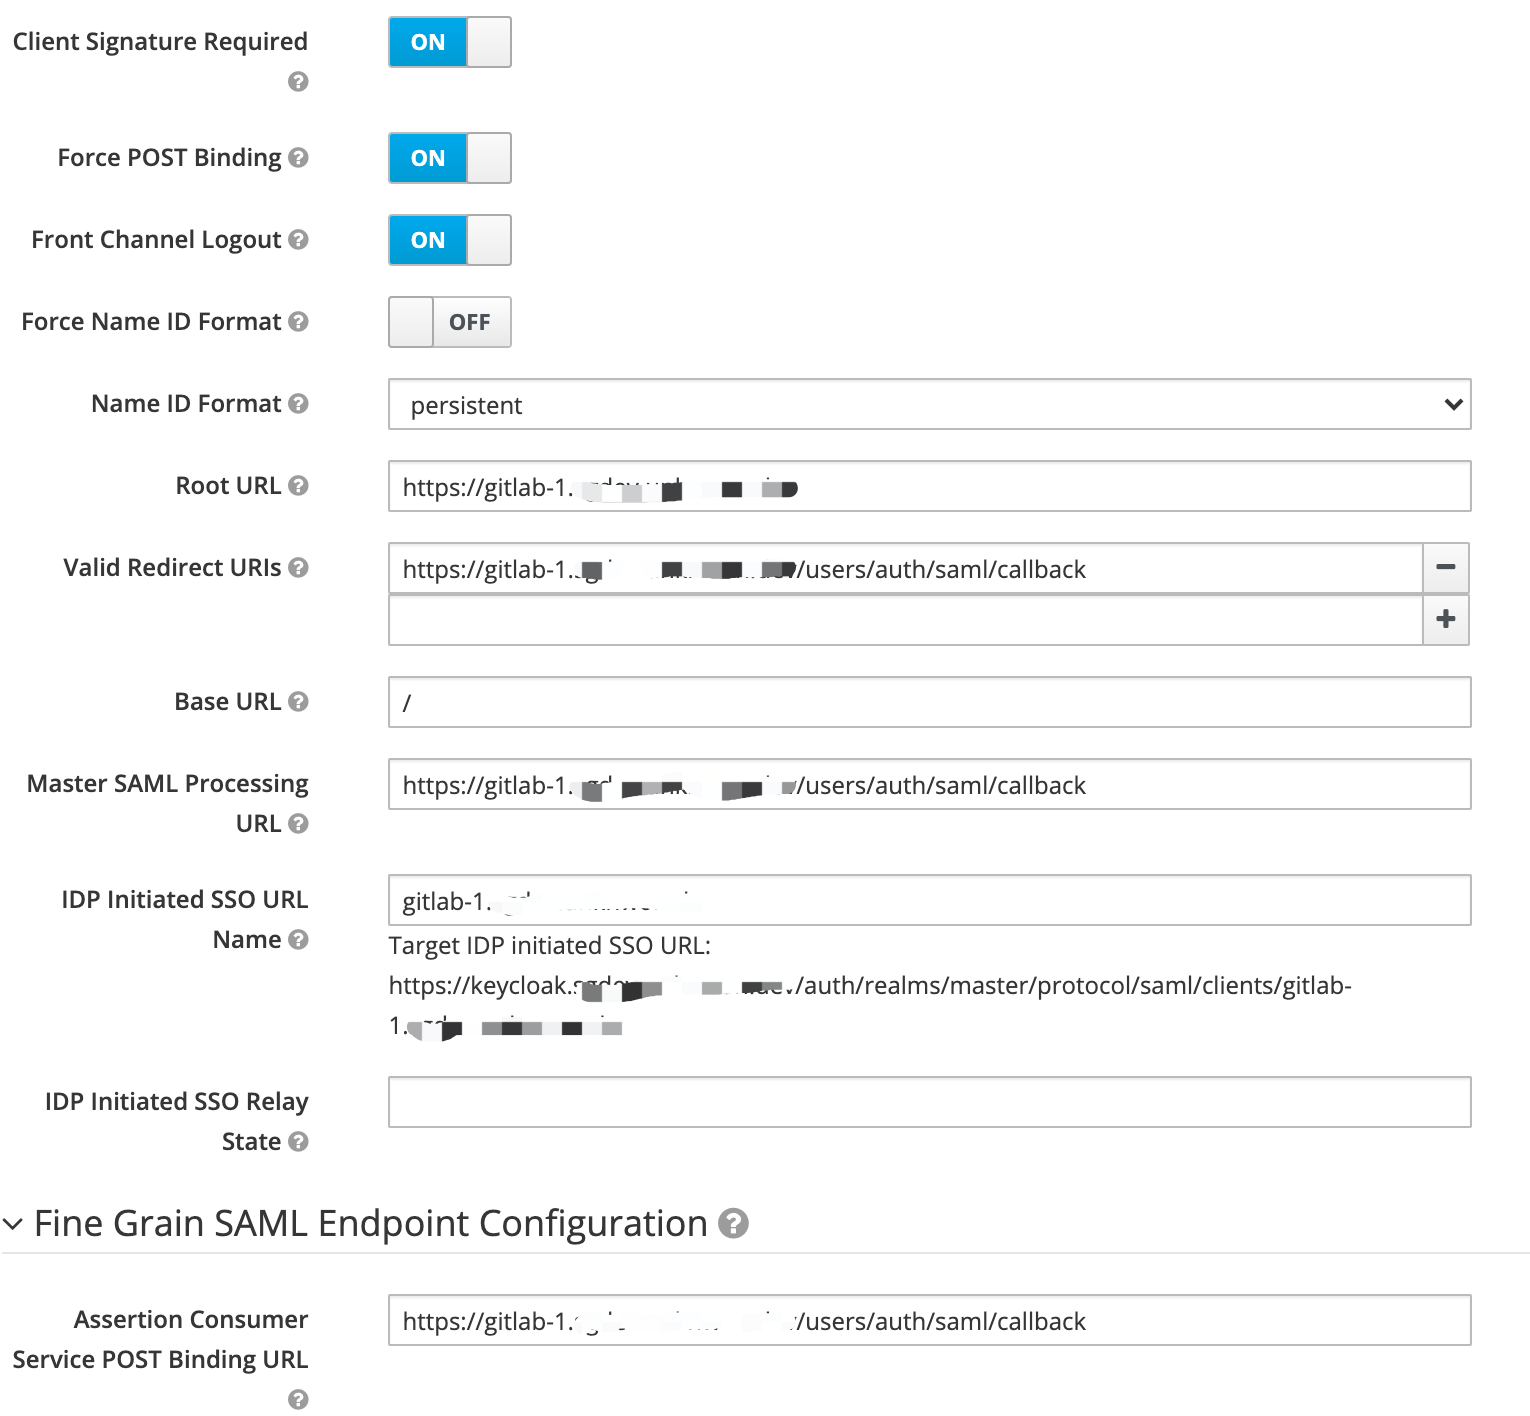
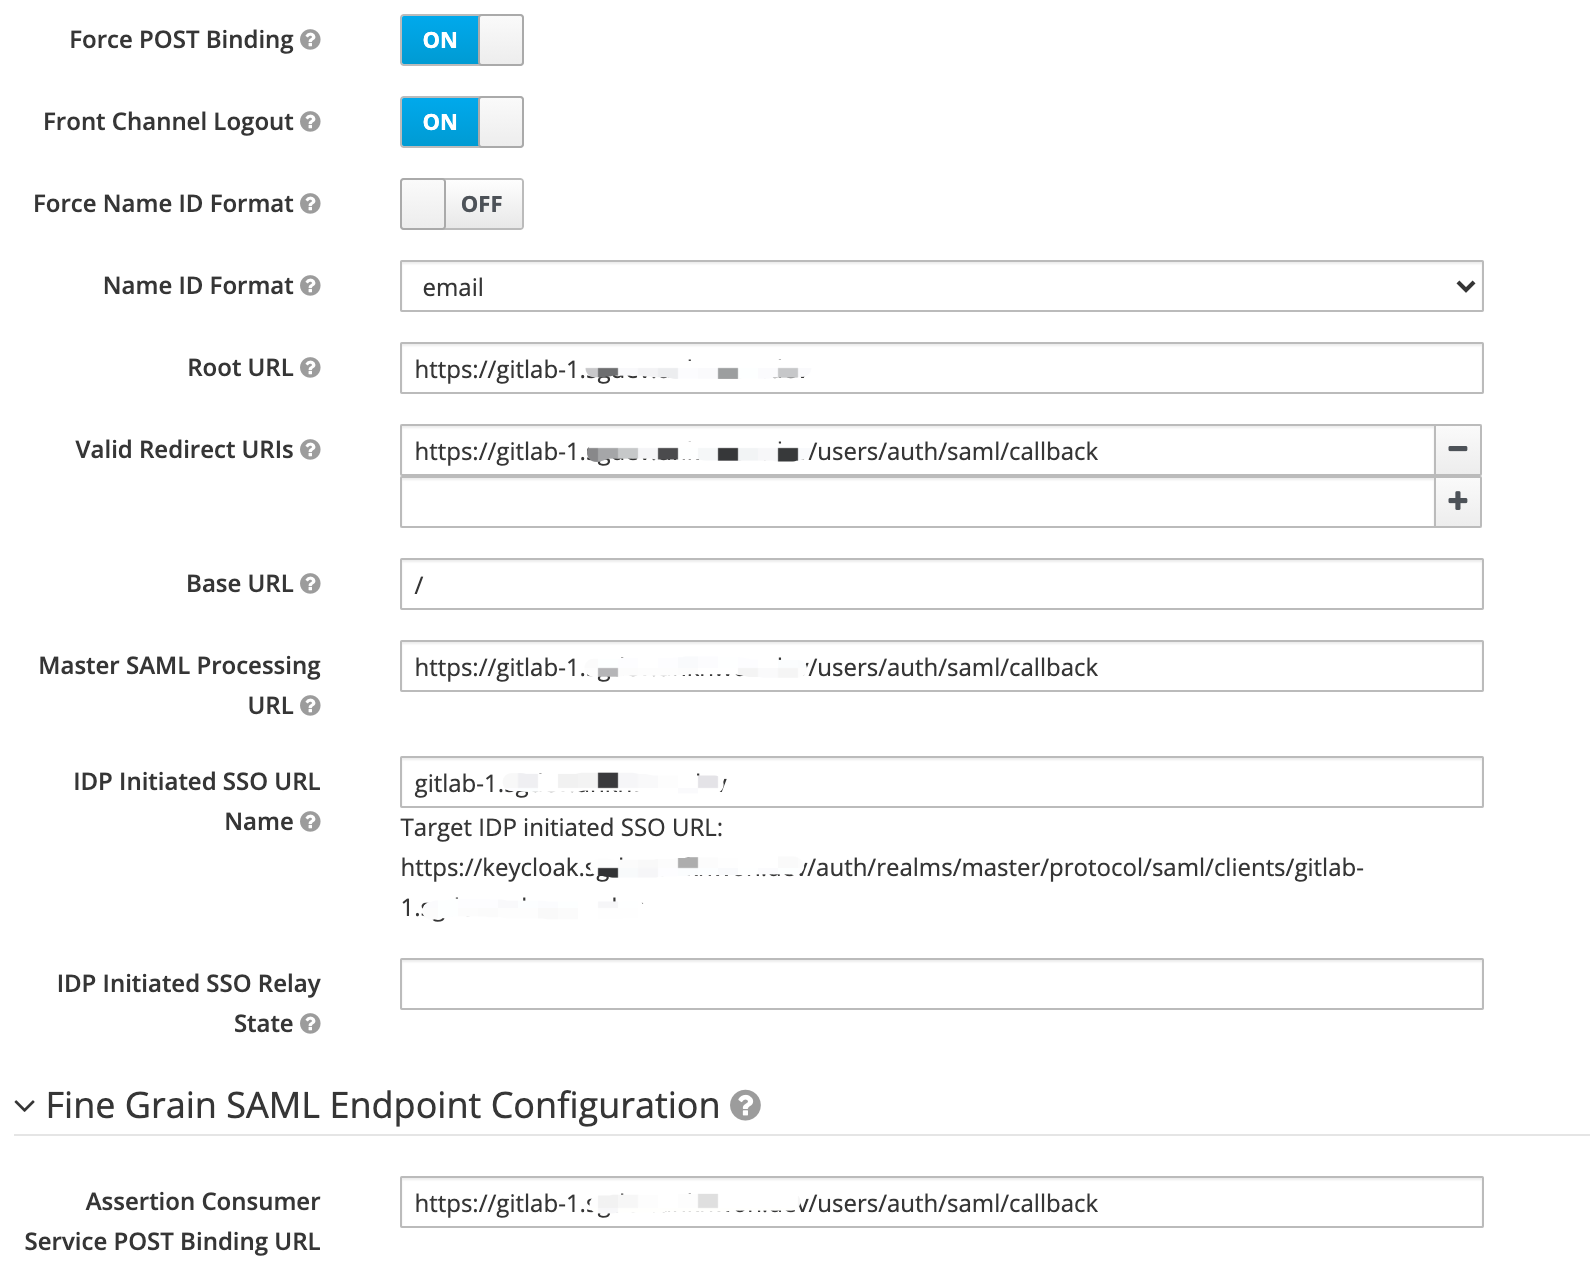
200915: update NameID format

diff --git a/content/posts/200915_setup-sourcegraph-gitlab-keycloak.md b/content/posts/200915_setup-sourcegraph-gitlab-keycloak.md
@@ -202,9 +202,11 @@ All the same for the first GitLab except this time using `gitlab-2`.
 
 ### Create a Keycloak client
 
-Because I'm using a local Sourcegraph instance, just import [this JSON file](https://github.com/sourcegraph/sourcegraph/blob/59bfb598a2e7428d2fd28fac8917857f9b263886/dev/auth-provider/config/client-saml.json) and you're done:
+Because I'm using a local Sourcegraph instance, so the URL is pointing to localhost:
 
-![](/img/200915/keycloak_sourcegraph.png)
+![](/img/200915/keycloak_sourcegraph_1.png)
+
+![](/img/200915/keycloak_sourcegraph_2.png)
 
 ### Configure SAML auth provider
 
